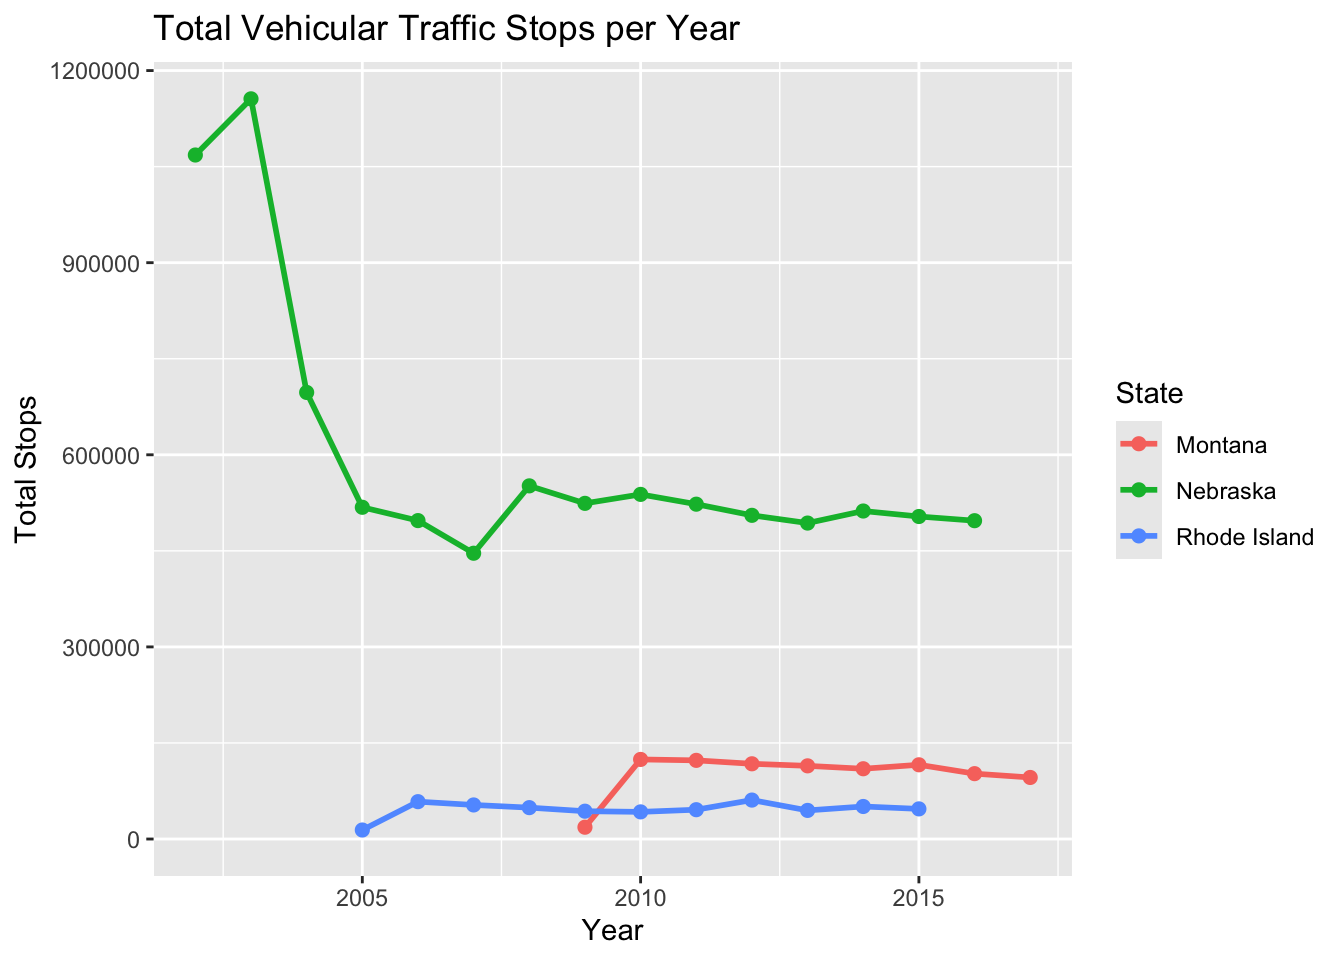
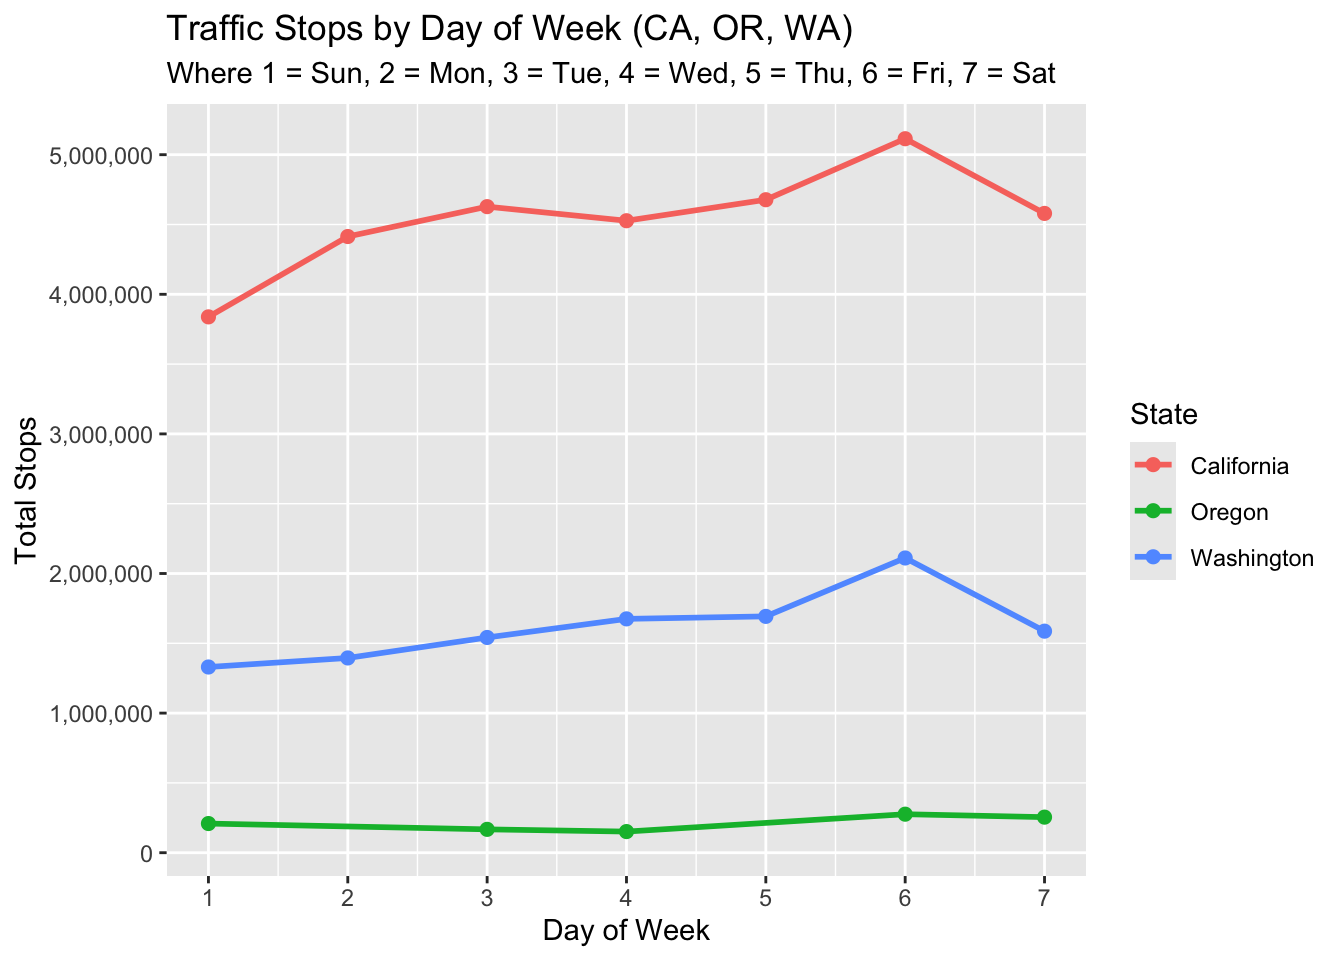
yey!

diff --git a/docs/traffic_stops.html b/docs/traffic_stops.html
@@ -1269,6 +1269,114 @@ pre > code.sourceCode > span > a:first-child::before { text-decoration: underlin
 <span id="cb12-33"><a href="#cb12-33" aria-hidden="true" tabindex="-1"></a><span class="st">  "</span></span>
 <span id="cb12-34"><a href="#cb12-34" aria-hidden="true" tabindex="-1"></a>)</span></code></pre></div><button title="Copy to Clipboard" class="code-copy-button"><i class="bi"></i></button></div>
 </div>
+<p>Now, we can plot this information!</p>
+<div class="cell">
+<div class="code-copy-outer-scaffold"><div class="sourceCode cell-code" id="cb13"><pre class="sourceCode r code-with-copy"><code class="sourceCode r"><span id="cb13-1"><a href="#cb13-1" aria-hidden="true" tabindex="-1"></a><span class="fu">library</span>(ggplot2)</span>
+<span id="cb13-2"><a href="#cb13-2" aria-hidden="true" tabindex="-1"></a></span>
+<span id="cb13-3"><a href="#cb13-3" aria-hidden="true" tabindex="-1"></a><span class="fu">ggplot</span>(</span>
+<span id="cb13-4"><a href="#cb13-4" aria-hidden="true" tabindex="-1"></a>  ca_or_wa_weekday,</span>
+<span id="cb13-5"><a href="#cb13-5" aria-hidden="true" tabindex="-1"></a>  <span class="fu">aes</span>(<span class="at">x =</span> weekday, <span class="at">y =</span> total_stops, <span class="at">color =</span> state, <span class="at">group =</span> state)</span>
+<span id="cb13-6"><a href="#cb13-6" aria-hidden="true" tabindex="-1"></a>) <span class="sc">+</span></span>
+<span id="cb13-7"><a href="#cb13-7" aria-hidden="true" tabindex="-1"></a>  <span class="fu">geom_line</span>(<span class="at">linewidth =</span> <span class="dv">1</span>) <span class="sc">+</span></span>
+<span id="cb13-8"><a href="#cb13-8" aria-hidden="true" tabindex="-1"></a>  <span class="fu">geom_point</span>(<span class="at">size =</span> <span class="dv">2</span>) <span class="sc">+</span></span>
+<span id="cb13-9"><a href="#cb13-9" aria-hidden="true" tabindex="-1"></a>  <span class="fu">scale_x_continuous</span>(<span class="at">breaks =</span> <span class="dv">1</span><span class="sc">:</span><span class="dv">7</span>)<span class="sc">+</span></span>
+<span id="cb13-10"><a href="#cb13-10" aria-hidden="true" tabindex="-1"></a>  <span class="fu">scale_y_continuous</span>(<span class="at">labels =</span> scales<span class="sc">::</span>comma)<span class="sc">+</span></span>
+<span id="cb13-11"><a href="#cb13-11" aria-hidden="true" tabindex="-1"></a>  <span class="fu">labs</span>(</span>
+<span id="cb13-12"><a href="#cb13-12" aria-hidden="true" tabindex="-1"></a>    <span class="at">title =</span> <span class="st">"Traffic Stops by Day of Week (CA, OR, WA)"</span>,</span>
+<span id="cb13-13"><a href="#cb13-13" aria-hidden="true" tabindex="-1"></a>        <span class="at">subtitle =</span> <span class="st">"Where 1 = Sun, 2 = Mon, 3 = Tue, 4 = Wed, 5 = Thu, 6 = Fri, 7 = Sat"</span>,</span>
+<span id="cb13-14"><a href="#cb13-14" aria-hidden="true" tabindex="-1"></a>    <span class="at">x =</span> <span class="st">"Day of Week"</span>,</span>
+<span id="cb13-15"><a href="#cb13-15" aria-hidden="true" tabindex="-1"></a>    <span class="at">y =</span> <span class="st">"Total Stops"</span>,</span>
+<span id="cb13-16"><a href="#cb13-16" aria-hidden="true" tabindex="-1"></a>    <span class="at">color =</span> <span class="st">"State"</span></span>
+<span id="cb13-17"><a href="#cb13-17" aria-hidden="true" tabindex="-1"></a>  )</span></code></pre></div><button title="Copy to Clipboard" class="code-copy-button"><i class="bi"></i></button></div>
+<div class="cell-output-display">
+<div>
+<figure class="figure">
+<p><img src="traffic_stops_files/figure-html/unnamed-chunk-11-1.png" class="img-fluid figure-img" width="672"></p>
+</figure>
+</div>
+</div>
+</div>
+<p>As expected (and this is true for all states considered), out of all weekdays, Friday has the highest traffic stops by enforcement agents.</p>
+<p>Now that we have information on the days of the week, let’s be even more precise: what are the most common violations that happen during fridays across these states? Unfortunately, the variable “violations” is only present in the tables for Washignton and California, so we can’t use Oregon here.</p>
+<p>First, we need to once more join the tables.</p>
+<div class="cell">
+<div class="code-copy-outer-scaffold"><div class="sourceCode cell-code" id="cb14"><pre class="sourceCode r code-with-copy"><code class="sourceCode r"><span id="cb14-1"><a href="#cb14-1" aria-hidden="true" tabindex="-1"></a>friday_violations <span class="ot">&lt;-</span> <span class="fu">dbGetQuery</span>(</span>
+<span id="cb14-2"><a href="#cb14-2" aria-hidden="true" tabindex="-1"></a>  con_traffic,</span>
+<span id="cb14-3"><a href="#cb14-3" aria-hidden="true" tabindex="-1"></a>  <span class="st">"</span></span>
+<span id="cb14-4"><a href="#cb14-4" aria-hidden="true" tabindex="-1"></a><span class="st">  SELECT</span></span>
+<span id="cb14-5"><a href="#cb14-5" aria-hidden="true" tabindex="-1"></a><span class="st">      state,</span></span>
+<span id="cb14-6"><a href="#cb14-6" aria-hidden="true" tabindex="-1"></a><span class="st">      violation,</span></span>
+<span id="cb14-7"><a href="#cb14-7" aria-hidden="true" tabindex="-1"></a><span class="st">      COUNT(*) AS total_violations</span></span>
+<span id="cb14-8"><a href="#cb14-8" aria-hidden="true" tabindex="-1"></a><span class="st">  FROM (</span></span>
+<span id="cb14-9"><a href="#cb14-9" aria-hidden="true" tabindex="-1"></a><span class="st">      SELECT </span></span>
+<span id="cb14-10"><a href="#cb14-10" aria-hidden="true" tabindex="-1"></a><span class="st">          'California' AS state,</span></span>
+<span id="cb14-11"><a href="#cb14-11" aria-hidden="true" tabindex="-1"></a><span class="st">          violation,</span></span>
+<span id="cb14-12"><a href="#cb14-12" aria-hidden="true" tabindex="-1"></a><span class="st">          date</span></span>
+<span id="cb14-13"><a href="#cb14-13" aria-hidden="true" tabindex="-1"></a><span class="st">      FROM ca_statewide_2023_01_26</span></span>
+<span id="cb14-14"><a href="#cb14-14" aria-hidden="true" tabindex="-1"></a><span class="st">      WHERE violation IS NOT NULL AND violation &lt;&gt; ''</span></span>
+<span id="cb14-15"><a href="#cb14-15" aria-hidden="true" tabindex="-1"></a></span>
+<span id="cb14-16"><a href="#cb14-16" aria-hidden="true" tabindex="-1"></a><span class="st">      UNION ALL</span></span>
+<span id="cb14-17"><a href="#cb14-17" aria-hidden="true" tabindex="-1"></a></span>
+<span id="cb14-18"><a href="#cb14-18" aria-hidden="true" tabindex="-1"></a><span class="st">      SELECT </span></span>
+<span id="cb14-19"><a href="#cb14-19" aria-hidden="true" tabindex="-1"></a><span class="st">          'Washington' AS state,</span></span>
+<span id="cb14-20"><a href="#cb14-20" aria-hidden="true" tabindex="-1"></a><span class="st">          violation,</span></span>
+<span id="cb14-21"><a href="#cb14-21" aria-hidden="true" tabindex="-1"></a><span class="st">          date</span></span>
+<span id="cb14-22"><a href="#cb14-22" aria-hidden="true" tabindex="-1"></a><span class="st">      FROM wa_statewide_2020_04_01</span></span>
+<span id="cb14-23"><a href="#cb14-23" aria-hidden="true" tabindex="-1"></a><span class="st">      WHERE violation IS NOT NULL AND violation &lt;&gt; ''</span></span>
+<span id="cb14-24"><a href="#cb14-24" aria-hidden="true" tabindex="-1"></a><span class="st">  ) AS combined</span></span>
+<span id="cb14-25"><a href="#cb14-25" aria-hidden="true" tabindex="-1"></a><span class="st">  WHERE DAYOFWEEK(date) = 6</span></span>
+<span id="cb14-26"><a href="#cb14-26" aria-hidden="true" tabindex="-1"></a><span class="st">  GROUP BY state, violation</span></span>
+<span id="cb14-27"><a href="#cb14-27" aria-hidden="true" tabindex="-1"></a><span class="st">  ORDER BY state, total_violations DESC;</span></span>
+<span id="cb14-28"><a href="#cb14-28" aria-hidden="true" tabindex="-1"></a><span class="st">  "</span></span>
+<span id="cb14-29"><a href="#cb14-29" aria-hidden="true" tabindex="-1"></a>)</span></code></pre></div><button title="Copy to Clipboard" class="code-copy-button"><i class="bi"></i></button></div>
+</div>
+<p>Creating the top 5 violations:</p>
+<div class="cell">
+<div class="code-copy-outer-scaffold"><div class="sourceCode cell-code" id="cb15"><pre class="sourceCode r code-with-copy"><code class="sourceCode r"><span id="cb15-1"><a href="#cb15-1" aria-hidden="true" tabindex="-1"></a>top5_friday_violations <span class="ot">&lt;-</span> friday_violations <span class="sc">|&gt;</span></span>
+<span id="cb15-2"><a href="#cb15-2" aria-hidden="true" tabindex="-1"></a>  dplyr<span class="sc">::</span><span class="fu">group_by</span>(state) <span class="sc">|&gt;</span></span>
+<span id="cb15-3"><a href="#cb15-3" aria-hidden="true" tabindex="-1"></a>  dplyr<span class="sc">::</span><span class="fu">slice_max</span>(<span class="at">order_by =</span> total_violations, <span class="at">n =</span> <span class="dv">5</span>) <span class="sc">|&gt;</span></span>
+<span id="cb15-4"><a href="#cb15-4" aria-hidden="true" tabindex="-1"></a>  dplyr<span class="sc">::</span><span class="fu">ungroup</span>()</span></code></pre></div><button title="Copy to Clipboard" class="code-copy-button"><i class="bi"></i></button></div>
+</div>
+<p>Now plotting!</p>
+<div class="cell">
+<div class="code-copy-outer-scaffold"><div class="sourceCode cell-code" id="cb16"><pre class="sourceCode r code-with-copy"><code class="sourceCode r"><span id="cb16-1"><a href="#cb16-1" aria-hidden="true" tabindex="-1"></a><span class="fu">library</span>(dplyr)</span>
+<span id="cb16-2"><a href="#cb16-2" aria-hidden="true" tabindex="-1"></a><span class="fu">library</span>(ggplot2)</span>
+<span id="cb16-3"><a href="#cb16-3" aria-hidden="true" tabindex="-1"></a></span>
+<span id="cb16-4"><a href="#cb16-4" aria-hidden="true" tabindex="-1"></a>ordered_df <span class="ot">&lt;-</span> top5_friday_violations <span class="sc">|&gt;</span></span>
+<span id="cb16-5"><a href="#cb16-5" aria-hidden="true" tabindex="-1"></a>  <span class="fu">mutate</span>(</span>
+<span id="cb16-6"><a href="#cb16-6" aria-hidden="true" tabindex="-1"></a>    <span class="at">state =</span> <span class="fu">factor</span>(state, <span class="at">levels =</span> <span class="fu">c</span>(<span class="st">"California"</span>, <span class="st">"Washington"</span>)),</span>
+<span id="cb16-7"><a href="#cb16-7" aria-hidden="true" tabindex="-1"></a>    <span class="at">violation =</span> <span class="fu">reorder</span>(violation, total_violations)</span>
+<span id="cb16-8"><a href="#cb16-8" aria-hidden="true" tabindex="-1"></a>  )</span>
+<span id="cb16-9"><a href="#cb16-9" aria-hidden="true" tabindex="-1"></a><span class="fu">ggplot</span>(</span>
+<span id="cb16-10"><a href="#cb16-10" aria-hidden="true" tabindex="-1"></a>  ordered_df,</span>
+<span id="cb16-11"><a href="#cb16-11" aria-hidden="true" tabindex="-1"></a>  <span class="fu">aes</span>(</span>
+<span id="cb16-12"><a href="#cb16-12" aria-hidden="true" tabindex="-1"></a>    <span class="at">x =</span> total_violations,</span>
+<span id="cb16-13"><a href="#cb16-13" aria-hidden="true" tabindex="-1"></a>    <span class="at">y =</span> violation,</span>
+<span id="cb16-14"><a href="#cb16-14" aria-hidden="true" tabindex="-1"></a>    <span class="at">fill =</span> state</span>
+<span id="cb16-15"><a href="#cb16-15" aria-hidden="true" tabindex="-1"></a>  )</span>
+<span id="cb16-16"><a href="#cb16-16" aria-hidden="true" tabindex="-1"></a>) <span class="sc">+</span></span>
+<span id="cb16-17"><a href="#cb16-17" aria-hidden="true" tabindex="-1"></a>  <span class="fu">geom_col</span>(<span class="at">position =</span> <span class="st">"dodge"</span>) <span class="sc">+</span></span>
+<span id="cb16-18"><a href="#cb16-18" aria-hidden="true" tabindex="-1"></a>  <span class="fu">labs</span>(</span>
+<span id="cb16-19"><a href="#cb16-19" aria-hidden="true" tabindex="-1"></a>    <span class="at">title =</span> <span class="st">"Top 5 friday violations by state (CA and WA)"</span>,</span>
+<span id="cb16-20"><a href="#cb16-20" aria-hidden="true" tabindex="-1"></a>    <span class="at">x =</span> <span class="st">"Total Violations"</span>,</span>
+<span id="cb16-21"><a href="#cb16-21" aria-hidden="true" tabindex="-1"></a>    <span class="at">y =</span> <span class="st">"Violation"</span>,</span>
+<span id="cb16-22"><a href="#cb16-22" aria-hidden="true" tabindex="-1"></a>    <span class="at">fill =</span> <span class="st">"State"</span></span>
+<span id="cb16-23"><a href="#cb16-23" aria-hidden="true" tabindex="-1"></a>  ) </span></code></pre></div><button title="Copy to Clipboard" class="code-copy-button"><i class="bi"></i></button></div>
+<div class="cell-output-display">
+<div>
+<figure class="figure">
+<p><img src="traffic_stops_files/figure-html/unnamed-chunk-14-1.png" class="img-fluid figure-img" width="672"></p>
+</figure>
+</div>
+</div>
+</div>
+<p>In both states, speed-related violations seem to be the most common, although California dominates it by far (possibly and substantially because of its much greater population). I would suppose part of the reason why however, in both states, speed-related violations are most common are in part because of people going to party at night and other forms of leisure. These factors can lead to more aggressive driving, higher average speeds, and therefore a greater frequency of speed-related stops.</p>
+<div class="cell">
+<div class="code-copy-outer-scaffold"><div class="sourceCode cell-code" id="cb17"><pre class="sourceCode r code-with-copy"><code class="sourceCode r"><span id="cb17-1"><a href="#cb17-1" aria-hidden="true" tabindex="-1"></a><span class="fu">dbDisconnect</span>(con_traffic)</span></code></pre></div><button title="Copy to Clipboard" class="code-copy-button"><i class="bi"></i></button></div>
+</div>
+<p>#References</p>
+<p>Pierson, Emma, Camelia Simoiu, Jan Overgoor, Sam Corbett-Davies, Daniel Jenson, Amy Shoemaker, Vignesh Ramachandran, et al.&nbsp;2020. “A Large-Scale Analysis of Racial Disparities in Police Stops Across the United States.” Nature Human Behaviour, 1–10.</p>
+<p>Stanford Open Policing Project. (n.d.). OpenPolicing database. Retrieved November 25, 2025, from https://openpolicing.stanford.edu/</p>
 
 
 
